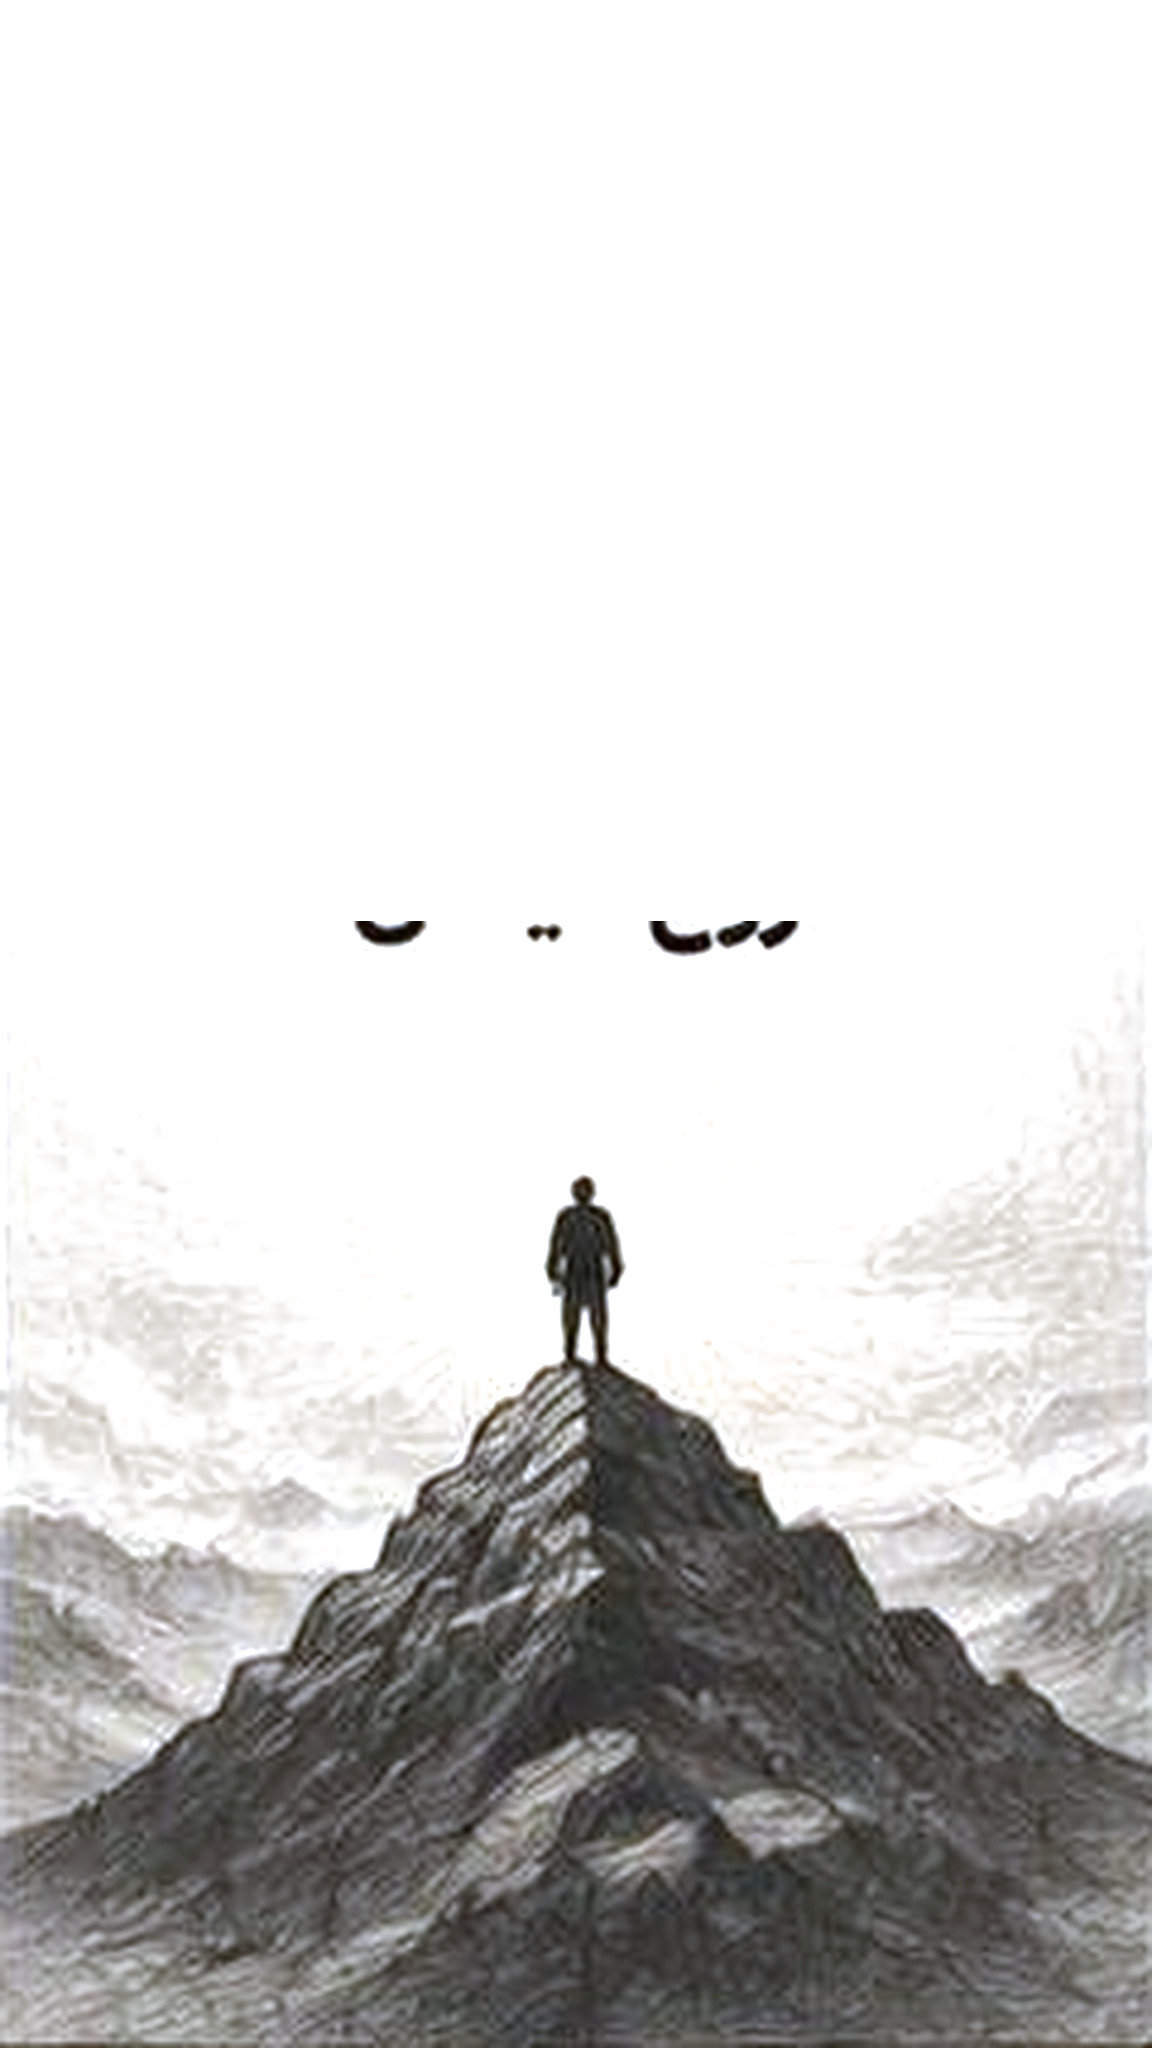
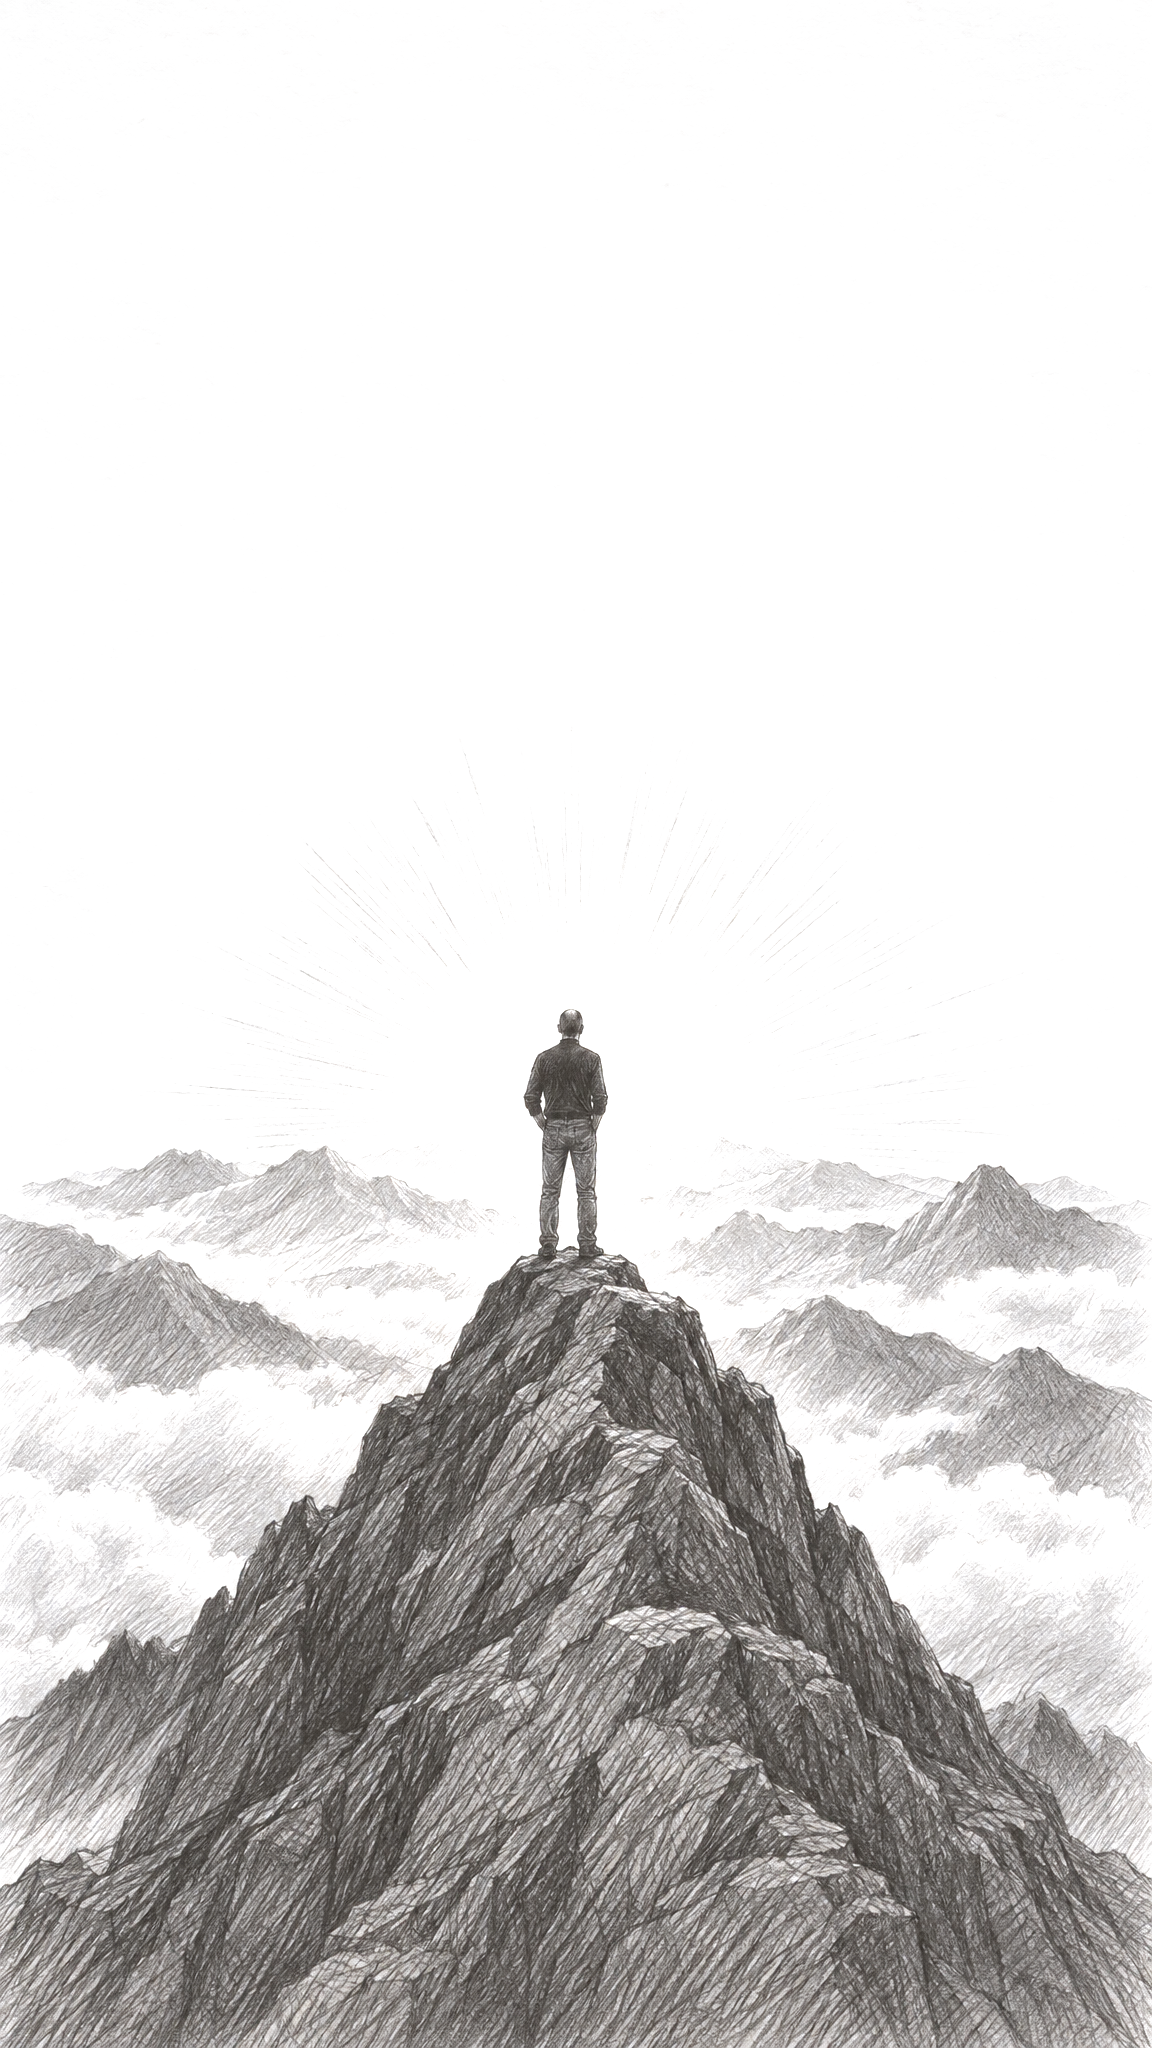
jobs-reel: GPT Image drawings for slides 1, 2 and 4; reframe s01/s04
Claude-Session: https://claude.ai/code/session_01Tc7MXakTq7BcG1vCrSnuEB

diff --git a/jobs-reel/compositions/s01.html b/jobs-reel/compositions/s01.html
@@ -27,7 +27,8 @@
               transform-origin: 100% 50%; }
         .frame { position: absolute; overflow: visible; }
         .frame rect { fill: none; stroke: #2a231c; stroke-width: 3; }
-#s01-q { position: absolute; right: 130px; top: 690px; font-size: 560px; line-height: 1; opacity: 0; }
+#s01-q { position: absolute; right: 96px; top: 650px; font-size: 520px; line-height: 1; opacity: 0; }
+        #s01-cam img { top: 170px; }
       </style>
       <div id="root" data-composition-id="s01" data-width="1080" data-height="1920">
         <div class="scene" id="s01-scene">
@@ -61,7 +62,7 @@
             tl.to(el, { opacity: 0, y: -34, filter: "blur(6px)", duration: 0.4, ease: "power2.in" }, +el.dataset.out);
           });
 
-          sketch(ID, 0, { from: 55, d: 0.7, lag: 0, sd: 0.8, shade0: 0.25 });
+          sketch(ID, 0, { from: 45, d: 0.7, lag: 0, sd: 0.7, shade0: 0.55 });
           tl.fromTo("#s01-cam", { scale: 1.0, x: 0, y: 0 }, { scale: 1.07, x: 0, y: -20, duration: 2.7, ease: "sine.inOut" }, 0);
           tl.fromTo("#s01-q", { opacity: 0, scale: 0.55, rotation: -14 }, { opacity: 1, scale: 1, rotation: 0, duration: 0.55, ease: "back.out(2.2)" }, 1.4500000000000002);
           tl.to("#s01-q", { rotation: 6, duration: 0.9, ease: "sine.inOut" }, 2.0300000000000002);

diff --git a/jobs-reel/compositions/s04.html b/jobs-reel/compositions/s04.html
@@ -27,7 +27,7 @@
               transform-origin: 100% 50%; }
         .frame { position: absolute; overflow: visible; }
         .frame rect { fill: none; stroke: #2a231c; stroke-width: 3; }
-
+#s04-cam img { top: 10px; }
       </style>
       <div id="root" data-composition-id="s04" data-width="1080" data-height="1920">
         <div class="scene" id="s04-scene">
@@ -63,7 +63,7 @@
           });
 
           sketch(ID, 0.15, { d: 0.9, sd: 1.0, lag: 0.35 });
-          tl.fromTo("#s04-cam", { scale: 1.0, x: 0, y: 0 }, { scale: 1.07, x: -24, y: 0, duration: 3.2, ease: "sine.inOut" }, 0);
+          tl.fromTo("#s04-cam", { scale: 1.0, x: 0, y: 0 }, { scale: 1.035, x: -16, y: 0, duration: 3.2, ease: "sine.inOut" }, 0);
           window.__timelines[ID] = tl;
         })();
       </script>

diff --git a/jobs-reel/tools/build_scenes.py b/jobs-reel/tools/build_scenes.py
@@ -192,9 +192,9 @@ def s01():
         line(sid, [W('این', 'L01:1'), W('رو', 'L01:1'), W('بهت', 'L01:2')], 140),
         line(sid, [W('نمیگه...', 'L01:3')], 98),
     ]) + '<div id="s01-q" class="acc">؟</div>'
-    css = '#s01-q { position: absolute; right: 130px; top: 690px; font-size: 560px; line-height: 1; opacity: 0; }'
+    css = '#s01-q { position: absolute; right: 96px; top: 650px; font-size: 520px; line-height: 1; opacity: 0; }\n        #s01-cam img { top: 170px; }'
     js = f'''
-          sketch(ID, 0, {{ from: 55, d: 0.7, lag: 0, sd: 0.8, shade0: 0.25 }});
+          sketch(ID, 0, {{ from: 45, d: 0.7, lag: 0, sd: 0.7, shade0: 0.55 }});
           {cam(sid, 1.0, 1.07, y1=-20)}
           tl.fromTo("#s01-q", {{ opacity: 0, scale: 0.55, rotation: -14 }}, {{ opacity: 1, scale: 1, rotation: 0, duration: 0.55, ease: "back.out(2.2)" }}, {cue('L01:3', sid) + 0.12});
           tl.to("#s01-q", {{ rotation: 6, duration: 0.9, ease: "sine.inOut" }}, {cue('L01:3', sid) + 0.7});'''
@@ -250,8 +250,8 @@ def s04():
     ])
     js = f'''
           sketch(ID, 0.15, {{ d: 0.9, sd: 1.0, lag: 0.35 }});
-          {cam(sid, 1.0, 1.07, x1=-24)}'''
-    scene_html(sid, body, js)
+          {cam(sid, 1.0, 1.035, x1=-16)}'''
+    scene_html(sid, body, js, '#s04-cam img { top: 10px; }')
 
 
 def s05():

diff --git a/jobs-reel/tools/prep_images.py b/jobs-reel/tools/prep_images.py
@@ -53,7 +53,7 @@ def lines(a):
     return Image.fromarray(np.clip(rgb + (255 - rgb) * 0.0, 0, 255).astype(np.uint8))
 
 def main():
-    for src in sorted(glob.glob(os.path.join(AI, 'src', 's??-*.png'))):
+    for src in sorted(p for p in glob.glob(os.path.join(AI, 'src', 's??-*.png')) if not p.endswith('-cut-raw.png')):
         sid = os.path.basename(src)[:3]
         a = np.asarray(Image.open(src).convert('RGB'), dtype=np.float32) / 255.0
         n, p = normalise(a)
